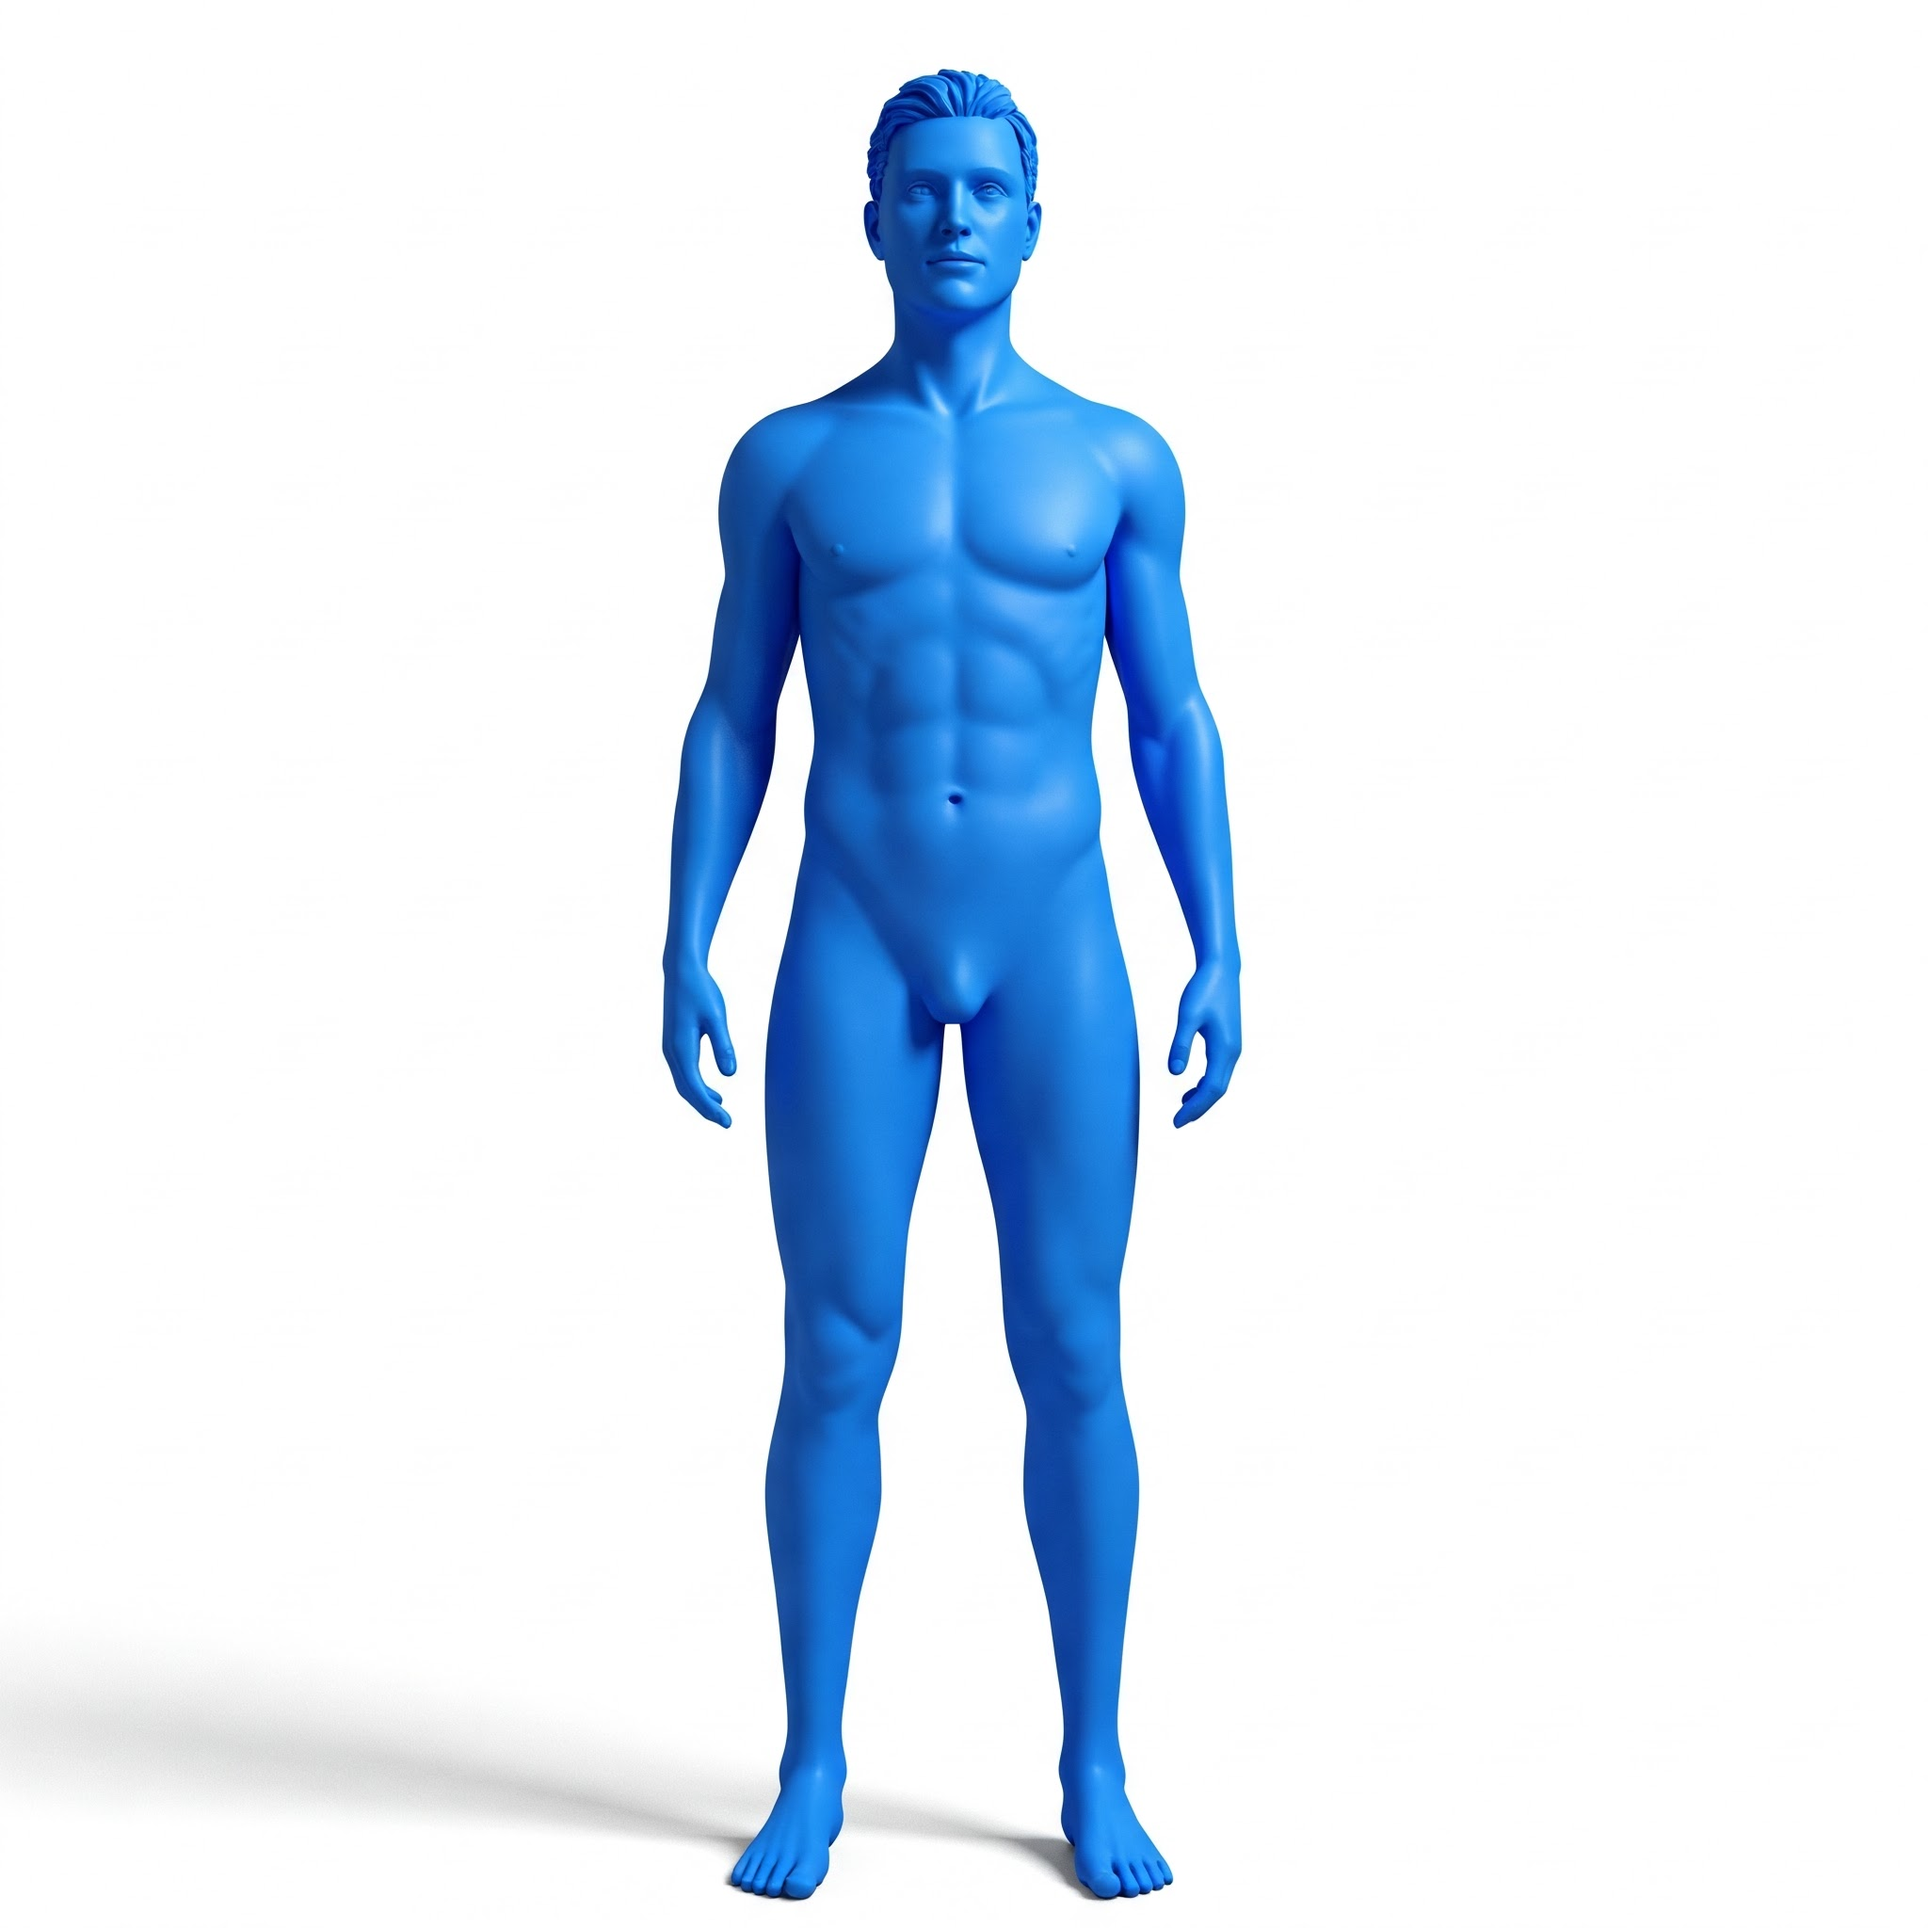
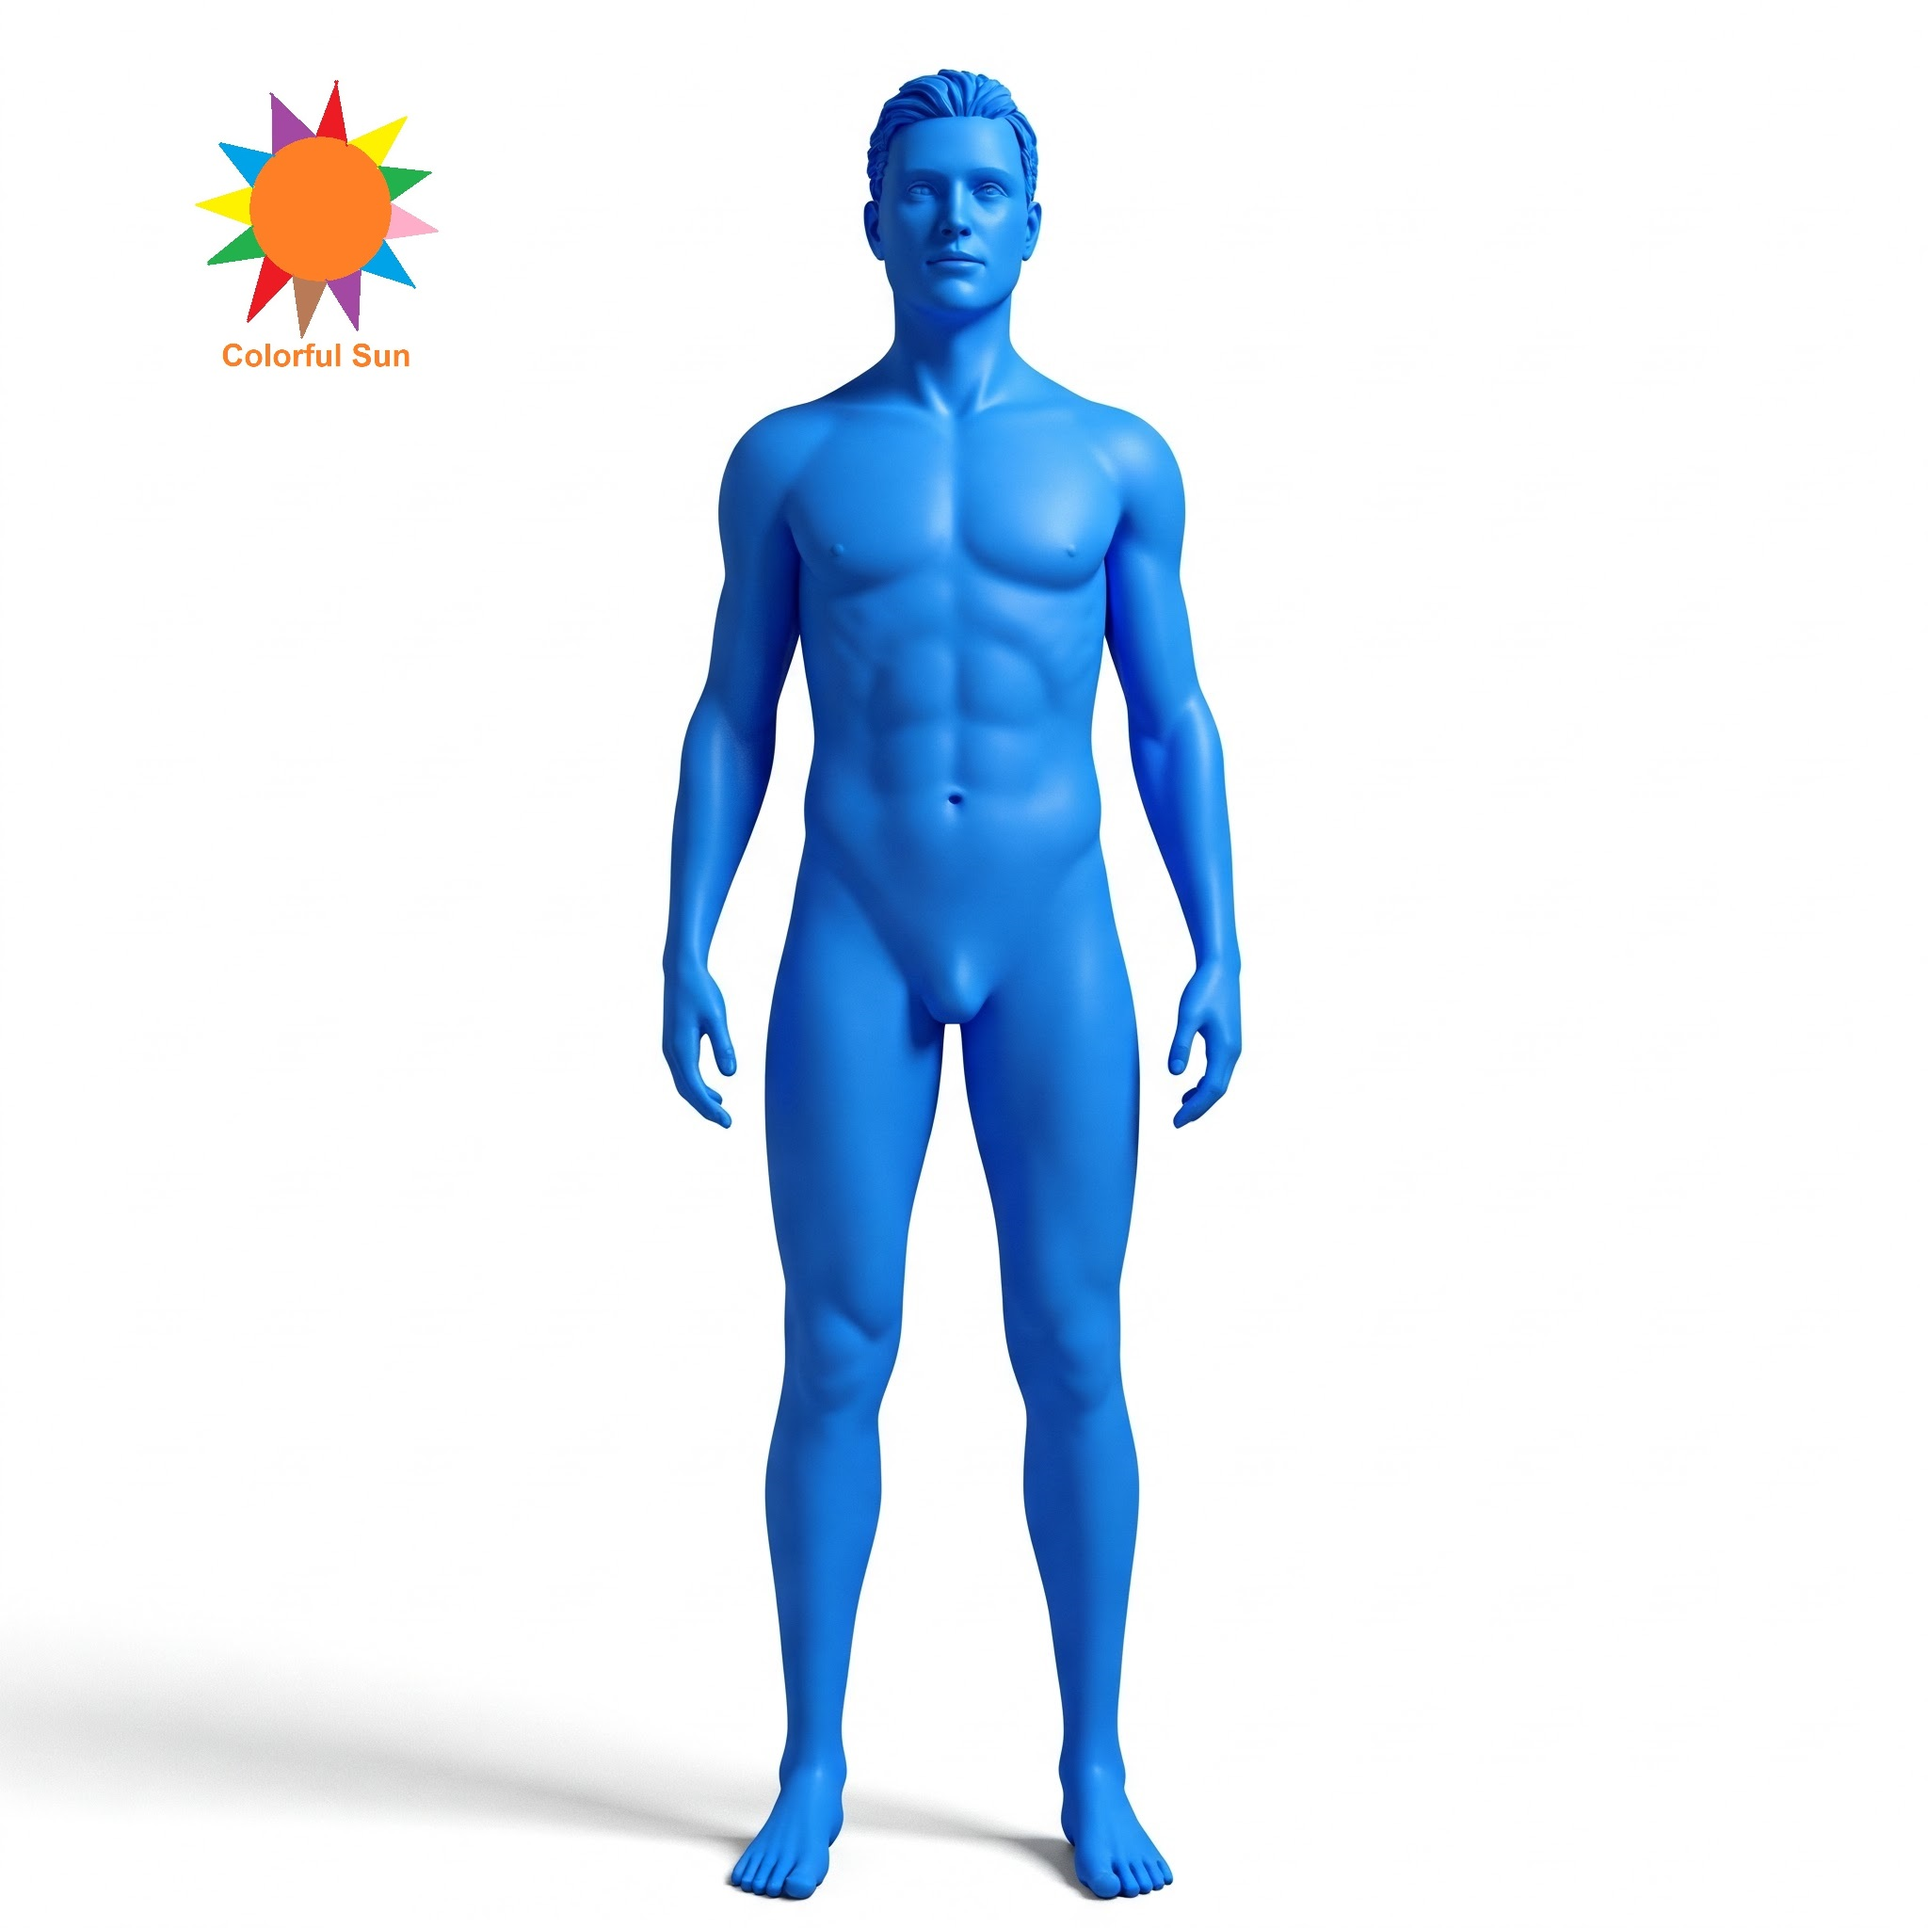
Add files via upload

Changed region(s): [[0.0938, 0.0312, 0.2188, 0.1875]]

diff --git a/colorfulsun/index.html b/colorfulsun/index.html
@@ -1,0 +1,151 @@
+<html>
+<head>
+<title>Colorful Sun</title>
+<style>
+body, html {
+  height: 100%;
+  margin: 0;
+}
+
+.bg {
+  /* The image used */
+  background-image: url("./colorfulsun.jpg");
+
+  /* Full height */
+  height: 100%; 
+
+  /* Center and scale the image nicely */
+  background-position: center;
+  background-repeat: no-repeat;
+  background-size: cover;
+}
+</style>
+</head>
+<body>
+<div class="bg">
+</div>
+<table align="center" width="50%" border=0>
+<tr><td><center><br>
+
+<p class=MsoNormal style='line-height:normal'><b><span style='font-size:18.0pt'>How
+to Make a Colorful Sun with a Red Candle and Markers</span></b></p>
+
+<p class=MsoNormal style='line-height:normal'><b><span style='font-size:18.0pt'>Chapter
+1: Introduction – Bring the Sun Indoors!</span></b></p></center>
+
+<p class=MsoNormal style='line-height:normal'><span style='font-size:18.0pt'><strong><font size=20>H</font></strong>ave
+you ever wished you could capture the warmth and beauty of the sun inside your
+home? Now you can — with just a red candle and a handful of colorful markers!</span></p>
+
+<p class=MsoNormal style='line-height:normal'><span style='font-size:18.0pt'>This
+simple and fun project is perfect for kids, teens, or anyone who loves arts and
+crafts. You’ll be creating a bright, vibrant <i>sun sculpture</i> using
+everyday items. Whether you want to decorate your desk, light up your room with
+color, or just enjoy a peaceful moment of creativity, this mini sun project is
+a great way to get started.</span></p>
+
+<p class=MsoNormal style='line-height:normal'><span style='font-size:18.0pt'>Let’s
+dive in!</span></p>
+
+<div class=MsoNormal align=center style='margin-bottom:0cm;margin-bottom:.0001pt;
+text-align:center;line-height:normal'><span style='font-size:18.0pt'>
+
+<hr size=2 width="100%" align=center>
+
+</span></div>
+<center><br>
+<p class=MsoNormal style='line-height:normal'><b><span style='font-size:18.0pt'>Chapter
+2: What You’ll Need &amp; How to Set It Up</span></b></p></center>
+
+<p class=MsoNormal style='line-height:normal'><b><span style='font-size:18.0pt'>Materials
+Needed:</span></b></p>
+
+<ul type=disc>
+ <li class=MsoNormal style='line-height:normal'><span style='font-size:18.0pt'>1
+     red candle (pillar or jar-style works best)</span></li>
+ <li class=MsoNormal style='line-height:normal'><span style='font-size:18.0pt'>8
+     to 12 colorful markers (the more colors, the better!)</span></li>
+ <li class=MsoNormal style='line-height:normal'><span style='font-size:18.0pt'>A
+     clean, flat surface like a table or desk</span></li>
+ <li class=MsoNormal style='line-height:normal'><span style='font-size:18.0pt'>A
+     round plate or piece of cardboard (optional, for easier setup)</span></li>
+</ul>
+
+<p class=MsoNormal style='line-height:normal'><b><span style='font-size:18.0pt'>Step-by-Step
+Instructions:</span></b></p>
+
+<p class=MsoNormal style='margin-left:36.0pt;text-indent:-18.0pt;line-height:
+normal'><span style='font-size:18.0pt'>1.<span style='font:7.0pt "Times New Roman"'>&nbsp;&nbsp;
+</span></span><b><span style='font-size:18.0pt'>Place the Candle</span></b><span
+style='font-size:18.0pt'>:<br>
+Set your red candle in the center of your surface. The red candle represents
+the fiery heart of the sun.</span></p>
+
+<p class=MsoNormal style='margin-left:36.0pt;text-indent:-18.0pt;line-height:
+normal'><span style='font-size:18.0pt'>2.<span style='font:7.0pt "Times New Roman"'>&nbsp;&nbsp;
+</span></span><b><span style='font-size:18.0pt'>Choose Your Markers</span></b><span
+style='font-size:18.0pt'>:<br>
+Pick a variety of marker colors — yellows, oranges, blues, purples, greens — to
+represent rays of light. Try to include warm tones to mimic sunlight, and cool
+tones for artistic contrast.</span></p>
+
+<p class=MsoNormal style='margin-left:36.0pt;text-indent:-18.0pt;line-height:
+normal'><span style='font-size:18.0pt'>3.<span style='font:7.0pt "Times New Roman"'>&nbsp;&nbsp;
+</span></span><b><span style='font-size:18.0pt'>Create the Sun Shape</span></b><span
+style='font-size:18.0pt'>:<br>
+Arrange your markers around the candle in a circular pattern, like rays
+stretching out from the center of the sun. Make sure the tips of the markers
+are pointing outward, and the bottoms are close to the base of the candle.</span></p>
+
+<p class=MsoNormal style='margin-left:36.0pt;text-indent:-18.0pt;line-height:
+normal'><span style='font-size:18.0pt'>4.<span style='font:7.0pt "Times New Roman"'>&nbsp;&nbsp;
+</span></span><b><span style='font-size:18.0pt'>Adjust the Rays</span></b><span
+style='font-size:18.0pt'>:<br>
+Space the markers evenly so the &quot;sun rays&quot; look symmetrical. You can
+angle them slightly for a dynamic look, or keep them perfectly straight for a
+clean, geometric feel.</span></p>
+
+<div class=MsoNormal align=center style='margin-bottom:0cm;margin-bottom:.0001pt;
+text-align:center;line-height:normal'><span style='font-size:18.0pt'>
+
+<hr size=2 width="100%" align=center>
+
+</span></div>
+<center><br>
+<p class=MsoNormal style='line-height:normal'><b><span style='font-size:18.0pt'>Chapter
+3: Enjoy Your Mini Sun &amp; Make It Your Own</span></b></p></center>
+
+<p class=MsoNormal style='line-height:normal'><span style='font-size:18.0pt'>Now
+that your colorful sun is assembled, take a step back and admire your creation!
+You’ve just turned ordinary art supplies into a glowing, cheerful centerpiece.</span></p>
+
+<p class=MsoNormal style='line-height:normal'><b><span style='font-size:18.0pt'>Ideas
+to Customize Your Sun:</span></b></p>
+
+<ul type=disc>
+ <li class=MsoNormal style='line-height:normal'><b><span style='font-size:18.0pt'>Light
+     the Candle</span></b><span style='font-size:18.0pt'> <i>(with adult
+     supervision if you're young!)</i> and watch how the flickering flame adds
+     life to your sun.</span></li>
+ <li class=MsoNormal style='line-height:normal'><b><span style='font-size:18.0pt'>Add
+     Decorations</span></b><span style='font-size:18.0pt'>: Use yellow tissue
+     paper or glitter around the base to add more sparkle.</span></li>
+ <li class=MsoNormal style='line-height:normal'><b><span style='font-size:18.0pt'>Switch
+     It Up</span></b><span style='font-size:18.0pt'>: Use highlighters,
+     crayons, or even colored pencils for different styles.</span></li>
+ <li class=MsoNormal style='line-height:normal'><b><span style='font-size:18.0pt'>Snap
+     a Photo</span></b><span style='font-size:18.0pt'>: Share your sun with
+     friends or on social media to inspire others.</span></li>
+</ul>
+
+<p class=MsoNormal style='line-height:normal'><span style='font-size:18.0pt'>This
+project reminds us that with a little imagination, even simple objects can
+shine bright. You’ve made more than just a sun — you’ve made a moment of joy.</span></p>
+
+<p class=MsoNormal><span style='font-size:18.0pt;line-height:115%'>&nbsp;</span></p>
+
+</td></tr>
+</table>
+
+</body>
+</html>

diff --git a/index.html b/index.html
@@ -14,7 +14,7 @@ color:black;
     display: inline;
 }
 .ebooks {
-margin-top:5%;
+margin-top:4%;
 margin-left:46%;
 }
 html,
@@ -47,6 +47,7 @@ body {
 <a class="static"  href="./heartshapedgarden/"><h2><span class="hover">📖</span>Heart Shaped Garden</h2></a>
 <a class="static"  href="./theproblemappeardisappear/"><h2><span class="hover">📖</span>The Problem Appear Disappear</h2></a>
 <a class="static"  href="./thecubeisarealitymolecule/"><h2><span class="hover">📖</span>The Cube Is A Reality Molecule</h2></a>
+<a class="static"  href="./colorfulsun/"><h2><span class="hover">📖</span>Colorful Sun</h2></a>
 </div>
 </center>
 </body>
